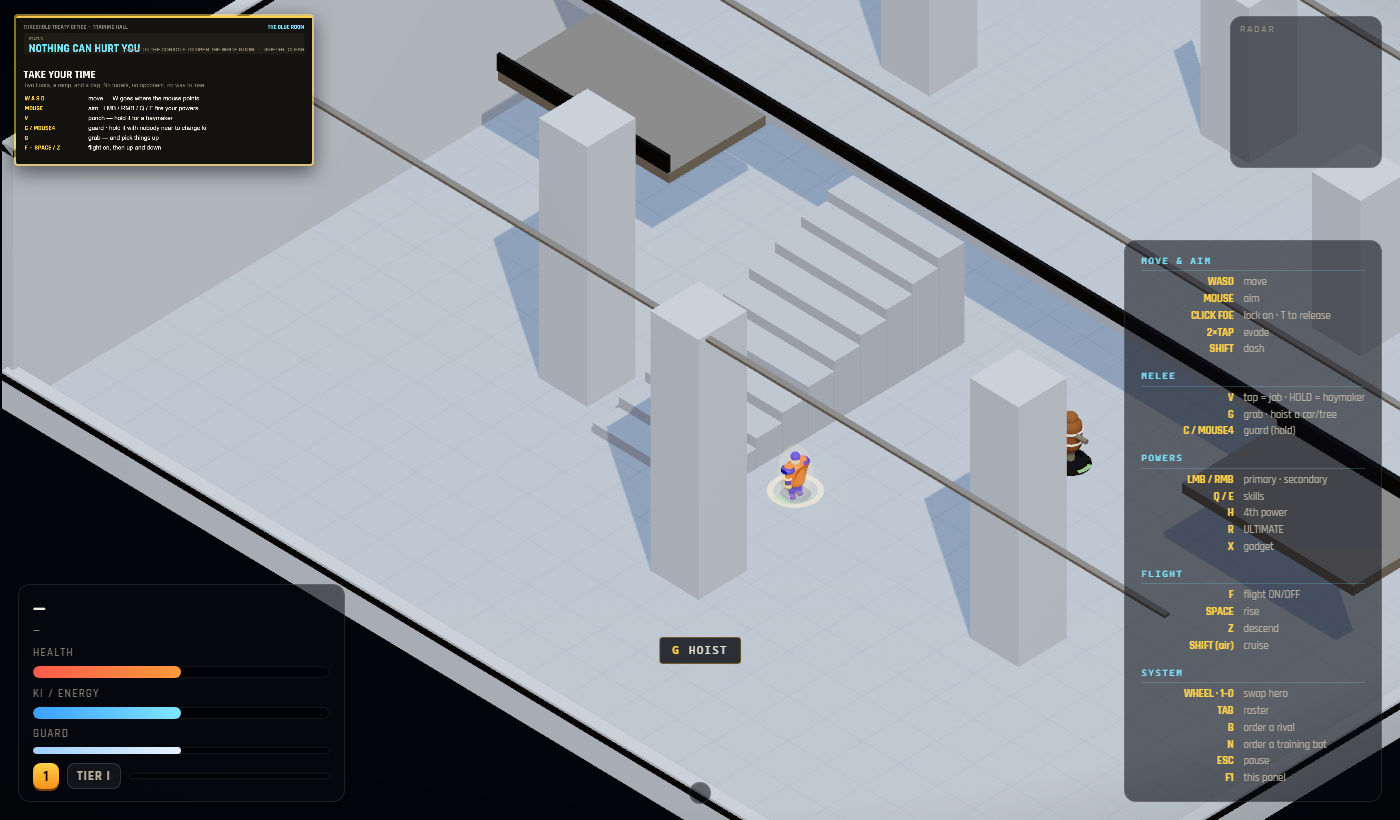
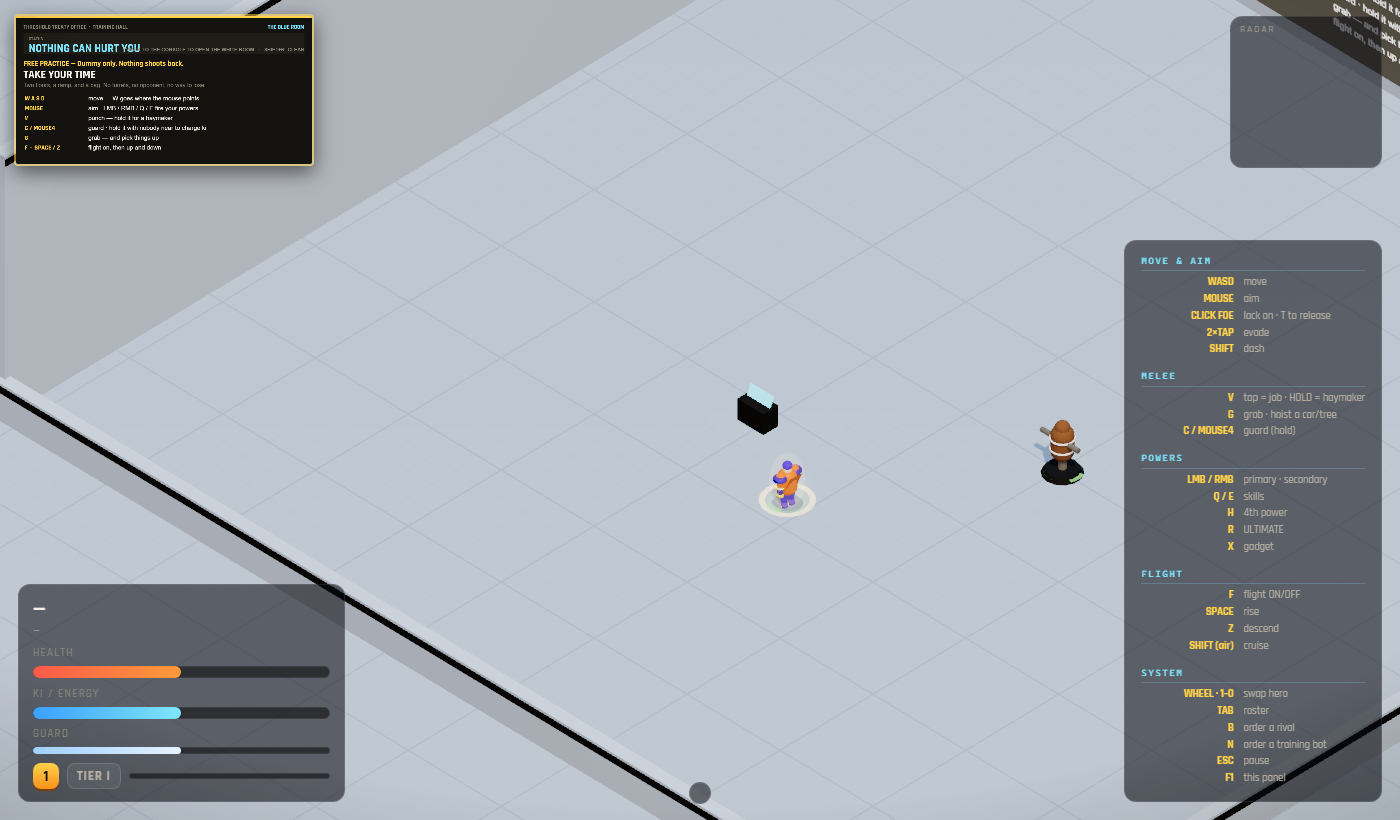
the blue room is an empty room
Robert: "no this is messed up… just make an empty room."

Pillars, gantries, the mezzanine, the staircase and the roof beams are WHITE-ROOM
structure now. An empty room is not a gap to be filled in — it is the only honest
place to learn what a button does, and every object in frame is one more thing
between the player and that.

- COVER MUST FOLLOW VISIBILITY. Hiding a mesh whose record is still in
  world.cover leaves an INVISIBLE WALL. Both move together in one loop, which is
  the only reason it can't drift. Verified by walking the floor corner to corner
  and by a 17x17 sweep: 0 lab cover records in the world in blue, all 19 back in
  white, 0 again on return.
- The floor now runs well past the walls. The camera-side walls are deliberately
  low so you can see in — which means you see over them too, and with the city
  hidden what was out there was pure black void. The room read as a slab floating
  in nothing. That was "the ground is —".
- AND THE TREES. propInReach walks four sources, not three: cars, planes, rocks,
  and the instanced street trees via _gOn. Clearing the first three still left
  the hall offering G HOIST for a tree standing in a hidden street. Every source,
  or the bug just moves. 0 offers across the whole floor now, 46 trees restored
  on exit.

auditSurfaces: 22 surfaces, 0 problems.

diff --git a/src/engine/whiteroom.js b/src/engine/whiteroom.js
@@ -101,6 +101,10 @@ export class WhiteRoom {
     this.M = { wall, floor, trim, steel, gold, live };
 
     const add = (m) => { grp.add(m); return m; };
+    // structure the blue room does without: `_cover` carries the pieces that are also COLLIDERS,
+    // `_extra` the purely decorative ones. Declared here because the roof beams are built before
+    // the pillars are — an empty list is cheaper than remembering the build order.
+    this._cover = []; this._extra = [];
     // ⚠ THE FLICKER WAS THREE FLAT SURFACES FIGHTING FOR THE SAME MILLIMETRE. The floor sat at
     // y=0.06 and a GridHelper at y=0.09 — while every fighter's contact shadow is pinned at
     // groundY+0.05. At 1:1 scale (1u ≈ 0.19m) those are 10 and 30 MILLIMETRES apart, far inside
@@ -112,7 +116,10 @@ export class WhiteRoom {
     // tie on purpose — anything drawn AT floor level wins, by rule rather than by luck.
     floor.map = this._floorTexture();
     sinkSurface(floor);           // see THE SURFACE-SEPARATION LAW in core/util.js
-    const fl = add(new THREE.Mesh(new THREE.PlaneGeometry(ROOM * 2, ROOM * 2), floor));
+    // ⚠ the floor runs WELL past the walls. The camera-side walls are deliberately low so you can
+    // see in — which means you see over them too, and with the city hidden what was out there was
+    // pure black void. The room read as a slab floating in nothing.
+    const fl = add(new THREE.Mesh(new THREE.PlaneGeometry(ROOM * 5, ROOM * 5), floor));
     fl.rotation.x = -Math.PI / 2; fl.position.y = 0; fl.receiveShadow = true;
 
     // ⚠ THE ISOMETRIC INTERIOR PROBLEM. An indoor room in a fixed isometric game has two surfaces
@@ -146,11 +153,10 @@ export class WhiteRoom {
     // peripheral vision, and nothing you have to look past.
     for (let i = -1; i <= 1; i++) {
       const b = add(new THREE.Mesh(new THREE.BoxGeometry(ROOM * 2, 0.7, 1.4), steel));
-      b.position.set(0, CEIL + 3, i * 78); b.castShadow = false;
+      b.position.set(0, CEIL + 3, i * 78); b.castShadow = false; this._extra.push(b);
     }
 
     // PILLARS — real cover, so line of sight and dodging mean something indoors
-    this._cover = [];
     for (const [px, pz] of [[-58, -46], [58, -46], [-58, 46], [58, 46], [0, -74], [0, 74]]) {
       const p = add(new THREE.Mesh(new THREE.BoxGeometry(13, WALL_H, 13), wall));
       p.position.set(px, WALL_H / 2, pz); p.castShadow = true; p.receiveShadow = true;
@@ -167,7 +173,7 @@ export class WhiteRoom {
                    hp: 1e9, maxHp: 1e9, y0: gy, w: 46, d: 26, destroyed: false, _lab: true };
       W.cover.push(co); W.coverAll.push(co); this._cover.push(co);
       const rail = add(new THREE.Mesh(new THREE.BoxGeometry(46, 4, 0.8), trim));
-      rail.position.set(s * 92, gy + 3.4, s > 0 ? -13 : 13);
+      rail.position.set(s * 92, gy + 3.4, s > 0 ? -13 : 13); this._extra.push(rail);
     }
 
     // ⚠ EVERYTHING BELOW THIS LINE IS DRILL APPARATUS, and it is SWITCHED OFF in the blue room.
@@ -195,7 +201,7 @@ export class WhiteRoom {
       W.cover.push(co); W.coverAll.push(co); this._cover.push(co);
     }
     const lip = add(new THREE.Mesh(new THREE.BoxGeometry(ROOM * 2 - 6, 3.2, 0.9), trim));
-    lip.position.set(0, F2 + 2.6, -14.5);
+    lip.position.set(0, F2 + 2.6, -14.5); this._extra.push(lip);
     // ⚠ STAIRS, NOT A RAMP. The first version drew a tilted slab and registered nothing, so it was
     // scenery you fell straight through. Physics is AABB — a rotated box has no honest collider —
     // and the stand-on-top test only catches you when you are already within 2.5u of the surface,
@@ -296,8 +302,12 @@ export class WhiteRoom {
     // have handed the player a car they could not see. Same lesson as the ambulance that survived
     // the hide list: the room must take the DATA away, not just the pixels. Stashed, and put back
     // in close() exactly as found so the theater you travelled to is untouched.
-    this._props = { cars: W.cars, planes: W.planes, rocks: W.rocks };
+    // ⚠ AND THE TREES. propInReach walks four sources, not three: cars, planes, rocks, and the
+    // instanced street trees via `_gOn`. Clearing the first three still left the hall offering
+    // "G HOIST" for a tree standing in a hidden street. Every source, or the bug just moves.
+    this._props = { cars: W.cars, planes: W.planes, rocks: W.rocks, gOn: W._gOn };
     W.cars = []; W.planes = []; W.rocks = [];
+    if (W._gOn) W._gOn = new W._gOn.constructor(W._gOn.length);   // same type, all zeroes
 
     // ⚠ NOTHING IS HIDDEN IN A TRAINING HALL. The vision system runs even with fog off, and the
     // pillars are real cover — so targets standing in plain sight behind a column picked up "last
@@ -341,7 +351,11 @@ export class WhiteRoom {
     if (this._mirrorEl) { this._mirrorEl.remove(); this._mirrorEl = null; this._mirrorHidden = undefined; }
     for (const m of (this._hidden || [])) if (m) m.visible = true;
     this._hidden = null;
-    if (this._props) { W.cars = this._props.cars; W.planes = this._props.planes; W.rocks = this._props.rocks; this._props = null; }
+    if (this._props) {
+      W.cars = this._props.cars; W.planes = this._props.planes; W.rocks = this._props.rocks;
+      if (this._props.gOn) W._gOn = this._props.gOn;
+      this._props = null;
+    }
     if (this._prevVision) { g.updateVision = this._prevVision; this._prevVision = null; }
     if (this._prevFog != null) W.setFogEnabled(this._prevFog);
     if (W.wildlife) W.wildlife.enabled = true;
@@ -488,10 +502,24 @@ export class WhiteRoom {
   // machinery is physically absent from the blue room, not merely idle
   _paintShell() {
     if (!this.M) return;
+    const W = this.g.world;
     const blue = this.room === 'blue';
     this.M.wall.color.set(blue ? '#b9c6cf' : '#cfcbc2');
     this.M.floor.color.set(blue ? '#a9b6c0' : '#c2beb5');
     for (const m of (this._apparatus || [])) m.visible = !blue;
+    for (const m of (this._extra || [])) m.visible = !blue;
+    // ⚠ AN EMPTY ROOM MEANS EMPTY (Robert: "no this is messed up… just make an empty room").
+    // Pillars, gantries, the mezzanine, the staircase and the roof beams are WHITE-ROOM structure.
+    // ⚠ COVER MUST FOLLOW VISIBILITY — a hidden mesh whose record is still in world.cover is an
+    // INVISIBLE WALL, the same class of bug as the city props the room used to leave lying around.
+    // Both move together here, which is the only reason this can't drift.
+    for (const co of (this._cover || [])) {
+      if (co.mesh) co.mesh.visible = !blue;
+      const i = W.cover.indexOf(co);
+      if (blue) { if (i >= 0) W.cover.splice(i, 1); }
+      else if (i < 0) W.cover.push(co);
+    }
+    if (W.refreshFogBoxes) W.refreshFogBoxes();
     if (blue) for (const s of this.sleds) if (s.f) { this._killFighter(s.f); s.f = null; }
   }
 
